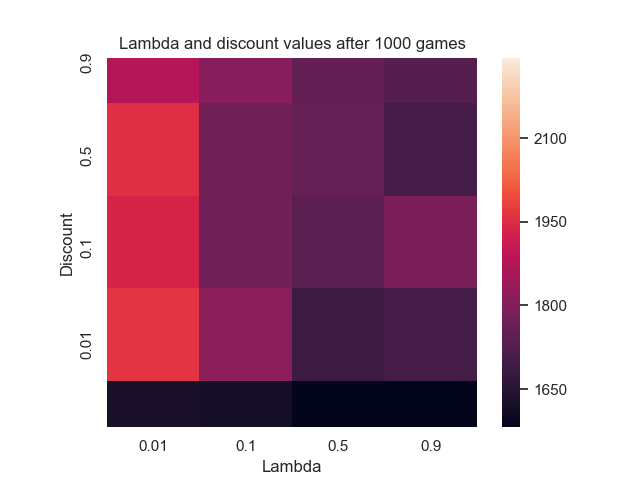
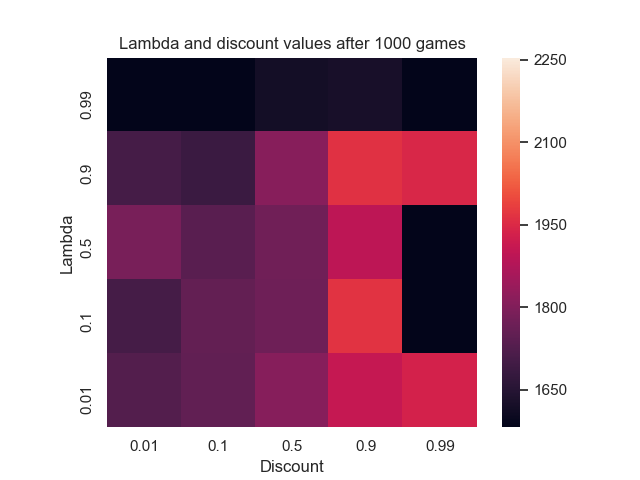
fix

diff --git a/plotgenerators/heatmapplot.py b/plotgenerators/heatmapplot.py
@@ -36,19 +36,26 @@ for EloOverTime, name, agent, color in Data(files, elo=False):
         maxi = val if val > maxi else maxi
 
 
-labdas = np.array(list(sorted(lamds)))
-discounts = np.array(list(sorted(diss, reverse=True)))
+labdas = np.array(list(sorted(lamds, reverse=True)))
+discounts = np.array(list(sorted(diss)))
+print(labdas, discounts)
+
 
 for x, values in vs.items():
     heat = np.zeros((len(labdas), len(discounts)))
     for position, value in values.items():
         lambd_x, dis_y = position
         heat[lambd_x == labdas, dis_y == discounts] = value
-    ax = sns.heatmap(heat, vmin=mini, vmax=maxi, square=True)
-    ax.set_xticklabels(labdas)
-    ax.set_yticklabels(discounts)
-    ax.set_xlabel('Lambda')
-    ax.set_ylabel('Discount')
+    ax = sns.heatmap(heat, vmin=mini, vmax=maxi, square=False)
+    ax.set_xticklabels(labdas[::-1])
+    ax.set_yticklabels(discounts[::-1])
+    ax.set_xlabel('Discount')
+    ax.set_ylabel('Lambda')
     ax.set_title(f'Lambda and discount values after {x} games')
+    b, t = plt.ylim()  # discover the values for bottom and top
+    b += 0.5  # Add 0.5 to the bottom
+    t -= 0.5  # Subtract 0.5 from the top
+    plt.ylim(b, t)  # update the ylim(bottom, top) values
+    ax.set_aspect("equal")
     plt.savefig(f'GoodPlots/Heatmap-{x}.png')
     plt.clf()
